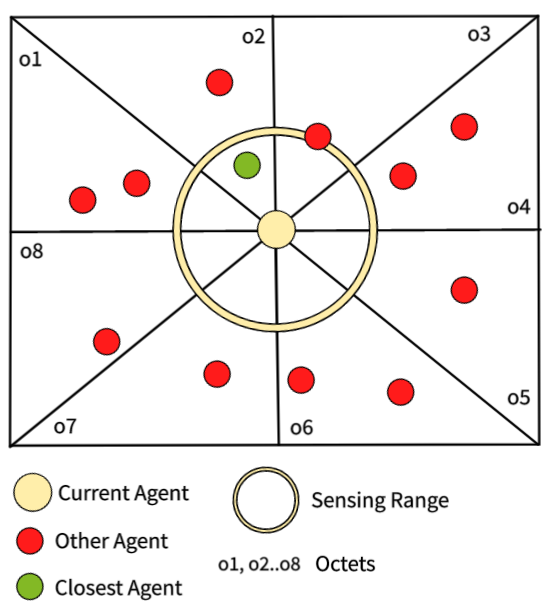
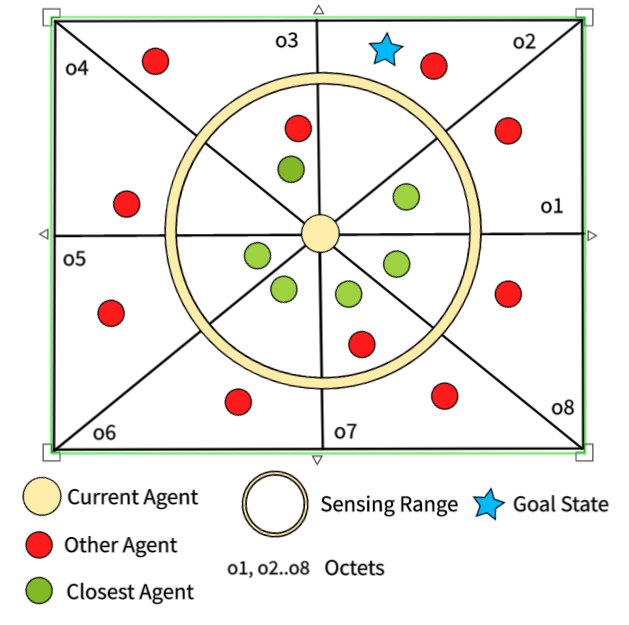
reach goal obstacle and agent collision generalize reward

diff --git a/lbc/problems/lbc_examples/lbc_simple.py b/lbc/problems/lbc_examples/lbc_simple.py
@@ -1,5 +1,5 @@
 """
-3d double integrator , multi robot uncooperative target
+
 """
 from collections import Counter
 import copy
@@ -26,12 +26,12 @@ def scan(robot_idx, state, scan_radius):
     # todo
     return
 
-
 class LbcSimple(Problem):
 
-    def __init__(self, num_agents: int = 2, num_regions: int = 8, board_size: int = 10,
-                 agent_goals: tuple = ((9, 9), (9, 1)), agent_starts: tuple = ((1, 1), (1, 9)),
-                 agent_prios: tuple = (0, 1), agent_speeds: tuple = (1, 1), sensing_ranges: tuple = (4.0, 4.0)):
+    def __init__(self, num_agents: int = 2, num_regions: int = 8, board_size: int = 10, collision_range: float = 1,
+                 reward_type: str = 'priority', agent_goals: tuple = ((9, 9), (9, 1)),
+                 agent_starts: tuple = ((1, 1), (1, 9)), agent_prios: tuple = (0, 1), agent_speeds: tuple = (1, 1),
+                 sensing_ranges: tuple = (4.0, 4.0)):
         """
         State space of individual agent:
             s[0], s[1]:                         location of agent
@@ -45,20 +45,25 @@ class LbcSimple(Problem):
         """
         super(LbcSimple, self).__init__()
 
+        reward_map = {
+            'priority': prio_reward,
+            'goal': goal_reward
+        }
         self.name = "lbc_simple"
-        self.reward_type = "priority"  # ["priority", "goal"]
+        self.reward_func = reward_map.get(reward_type, prio_reward)
         self.board_size = board_size
+        self.collision_range = collision_range
         self.num_robots = num_agents
         self.num_regions = num_regions
         self.robot_prios = check_agents_param(num_agents, agent_prios)
         self.sensing_ranges = check_agents_param(num_agents, sensing_ranges)
         self.robot_speeds = check_agents_param(num_agents, agent_speeds)
-        # todo  terminal state is when all agents have reached their goal
         self.robot_goals = check_agents_param(num_agents, agent_goals)
         self.robot_start_locs = check_agents_param(num_agents, agent_starts)
 
-        # todo  need to add concept of an obstacle
-        #       regions in the space that are not valid locations (need to alter self.isvalid
+        # todo  terminal state is when all agents have reached their goal
+        # todo  add concept of an obstacle
+        #       regions in the space that are not valid locations (need to alter self.isvalid)
         self.obstacles = []
 
         self.t0 = 0
@@ -117,14 +122,7 @@ class LbcSimple(Problem):
     def sample_state(self):
         return sample_vector(self.state_lims)
 
-    def initialize(self):
-        # todo generalize starting/goal positions based on number of agents
-        #   1: 1/2
-        #   2: 1/3, 2/3
-        #   3: 1/4, 2/4, 3/4
-        #   4: 1/5, 2/5, 3/5, 4/5
-        #   ...
-        #   ...
+    def initialize_simple(self):
         a0_start = self.robot_start_locs[0]
         a0_goal = self.robot_goals[0]
         a0_prio = self.robot_prios[0]
@@ -133,8 +131,8 @@ class LbcSimple(Problem):
         a1_goal = self.robot_goals[1]
         a1_prio = self.robot_prios[1]
 
-        region_dists = [1.0] * self.num_regions
-        region_prios = [0] * self.num_regions
+        region_dists = [1.0 for _ in self.num_regions]
+        region_prios = [0 for _ in self.num_regions]
         # These two lines can be used to test these entries in the state spaces as they will
         # create distinct values rather than all 0's
         # region_dists = np.arange(start=0, stop=self.num_regions, step=1)
@@ -152,27 +150,57 @@ class LbcSimple(Problem):
             region_dists,
             region_prios,
         ))
-        return start_state.astype('float')
+        start_state = start_state.astype('float')
+        return start_state
+
+    def initialize_obstacle(self):
+        # todo
+        return None
+
+    def initialize_multiple(self):
+        # todo generalize starting/goal positions based on number of agents
+        #   1: 1/2
+        #   2: 1/3, 2/3
+        #   3: 1/4, 2/4, 3/4
+        #   4: 1/5, 2/5, 3/5, 4/5
+        #   ...
+        #   ...
+        return None
+
+    def initialize(self, seed=None):
+        state_map = {
+            1: self.initialize_simple,
+        }
+        if isinstance(seed, int):
+            start_state = state_map.get(seed, state_map[1])
+        else:
+            start_state = self.sample_state()
+        return start_state
 
     def reward(self, state, action):
-        # todo  generalize to variable number of agents
-        s_0 = state[self.state_idxs[0]]
-        s_1 = state[self.state_idxs[1]]
-
-        if self.reward_type == "priority":
-            r_0 = prio_reward(s_0, action)
-            r_1 = prio_reward(s_1, action)
-        elif self.reward_type == "goal":
-            r_0 = goal_reward(s_0, action)
-            r_1 = goal_reward(s_1, action)
-
-        rew = np.array([[r_0], [r_1]])
+        rew = []
+        for robot_idx in range(self.num_robots):
+            rob_state = state[self.state_idxs[robot_idx]]
+            rob_action = action[self.action_idxs[robot_idx]]
+            rob_rew = self.reward_func(rob_state, rob_action)
+            rew.append([rob_rew])
+        rew = np.array(rew)
+        # s_1 = state[self.state_idxs[1]]
+        # r_1 = self.reward_func(s_1, action)
+        # if self.reward_func == "priority":
+        #     r_0 = prio_reward(s_0, action)
+        #     r_1 = prio_reward(s_1, action)
+        # elif self.reward_type == "goal":
+        #     r_0 = goal_reward(s_0, action)
+        #     r_1 = goal_reward(s_1, action)
+        # rew = np.array([[r_0], [r_1]])
         return rew
 
     def normalized_reward(self, state, action):
         return self.reward(state, action)
 
     def step(self, s, a, dt):
+        # todo if agent is at goal (or nearby), do not move
         ns = copy.deepcopy(s)
         # update robot positions based on action
         for robot_idx in range(self.num_robots):
@@ -264,13 +292,44 @@ class LbcSimple(Problem):
         return fig, ax
 
     def is_terminal(self, state):
-        # todo  all agents at goal
-        all_goal = False
-        valid_state = not self.is_valid(state)
-        # todo  check collision
+        at_goal = [False for _ in range(self.num_robots)]
+        agent_collision = [False for _ in range(self.num_robots)]
+        obstacle_collision = [False for _ in range(self.num_robots)]
 
-        term_criteria = [valid_state, not all_goal]
-        return all(term_criteria)
+        for robot_idx in range(self.num_robots):
+            robot_state = state[self.state_idxs[robot_idx]]
+            robot_pos = robot_state[0:2]
+            robot_goal = robot_state[3:5]
+            dist_goal = np.linalg.norm(robot_pos - robot_goal)
+            if dist_goal <= self.collision_range:
+                at_goal[robot_idx] = True
+
+        for robot_idx in range(self.num_robots):
+            robot_state = state[self.state_idxs[robot_idx]]
+            robot_pos = robot_state[0:2]
+            for other_robot in range(self.num_robots):
+                if other_robot == robot_idx:
+                    continue
+                other_state = state[self.state_idxs[other_robot]]
+                other_pos = other_state[0:2]
+                robot_dist = np.linalg.norm(robot_pos - other_pos)
+                if robot_dist <= self.collision_range:
+                    agent_collision[robot_idx] = True
+                    agent_collision[other_robot] = True
+
+        for robot_idx in range(self.num_robots):
+            robot_state = state[self.state_idxs[robot_idx]]
+            robot_pos = robot_state[0:2]
+            for each_obstacle in self.obstacles:
+                obstacle_dist = np.linalg.norm(robot_pos - each_obstacle)
+                if obstacle_dist <= self.collision_range:
+                    obstacle_collision[robot_idx] = True
+
+        all_goal = all(at_goal)
+        any_collision = any(agent_collision.extend(obstacle_collision))
+        valid_state = not self.is_valid(state)
+        term_criteria = [not valid_state, all_goal, any_collision]
+        return any(term_criteria)
 
     def is_valid(self, state):
         # todo  clean logic
